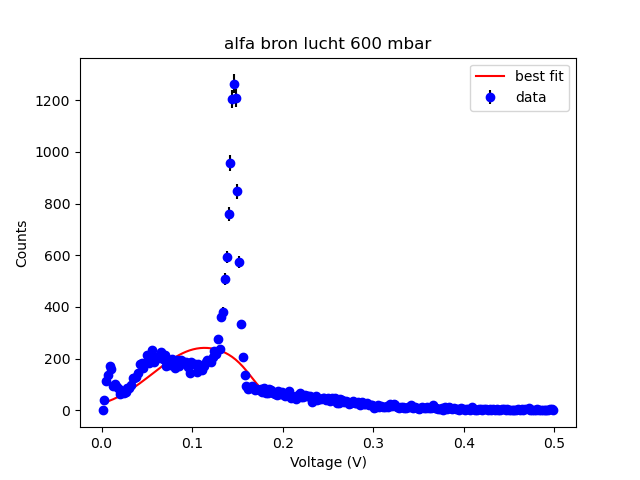
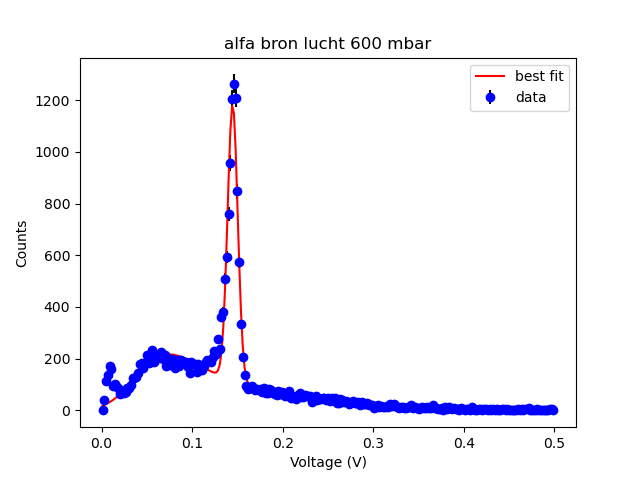
changed the starting values for the fit

diff --git a/dracht.py b/dracht.py
@@ -62,55 +62,43 @@ class Measurement:
         return  (voltage)/a
         
 
-os.chdir(os.path.join(python_file_path, "CSV data"))
-meas_vacuum = Measurement("alfa bron 21 mbar.csv", end_point=1000)
-meas_vacuum.data_fit(start_expmu=0.05, start_gauss1_mu=0.2)
-meas_vacuum.plot()
 
-# look at
-meas_air_100mbar = Measurement("alfa bron lucht 100 mbar.csv", end_point=1000)
-meas_air_100mbar.data_fit(start_expmu=0.05, start_gauss1_mu=0.18)
-meas_air_100mbar.plot()
+meas1_vacuum = Measurement("alfa bron 21 mbar.csv", end_point=1000)
+meas1_vacuum.data_fit(start_expmu=0.05, start_gauss1_mu=0.2)
+meas1_vacuum.plot()
 
-meas_air_200mbar = Measurement("alfa bron lucht 200 mbar.csv", end_point=1000)
-meas_air_200mbar.data_fit(start_expmu=0.05, start_gauss1_mu=0.2)
-meas_air_200mbar.plot()
+meas1_air_100mbar = Measurement("alfa bron lucht 100 mbar.csv", end_point=1000)
+meas1_air_100mbar.data_fit(start_expmu=0.05, start_gauss1_mu=0.18)
+meas1_air_100mbar.plot()
 
-# look at
-meas_air_300mbar = Measurement("alfa bron lucht 300 mbar.csv", end_point=1000)
-meas_air_300mbar.data_fit(start_expmu=0.05, start_gauss1_mu=0.18)
-meas_air_300mbar.plot()
+meas1_air_200mbar = Measurement("alfa bron lucht 200 mbar.csv", end_point=1000)
+meas1_air_200mbar.data_fit(start_expmu=0.05, start_gauss1_mu=0.2)
+meas1_air_200mbar.plot()
 
-# look at
-meas_air_400mbar = Measurement("alfa bron lucht 400 mbar.csv", end_point=1000)
-meas_air_400mbar.data_fit(start_expmu=0.025, start_gauss1_mu=0.17)
-meas_air_400mbar.plot()
+meas1_air_300mbar = Measurement("alfa bron lucht 300 mbar.csv", end_point=1000)
+meas1_air_300mbar.data_fit(start_expmu=0.05, start_gauss1_mu=0.18)
+meas1_air_300mbar.plot()
 
-# look at
-meas_air_500mbar = Measurement("alfa bron lucht 500 mbar.csv", end_point=1000)
-meas_air_500mbar.data_fit(start_expmu=0.025, start_gauss1_mu=0.16)
-meas_air_500mbar.plot()
+meas1_air_400mbar = Measurement("alfa bron lucht 400 mbar.csv", end_point=1000)
+meas1_air_400mbar.data_fit(start_expmu=0.025, start_gauss1_mu=0.17)
+meas1_air_400mbar.plot()
 
-# needs fixing
-meas_air_600mbar = Measurement("alfa bron lucht 600 mbar.csv", end_point=1000)
-meas_air_600mbar.data_fit(start_expmu=0.05, start_gauss1_mu=0.2)
-meas_air_600mbar.plot()
+meas1_air_500mbar = Measurement("alfa bron lucht 500 mbar.csv", end_point=1000)
+meas1_air_500mbar.data_fit(start_expmu=0.025, start_gauss1_mu=0.16)
+meas1_air_500mbar.plot()
 
-# needs fixing
-meas_air_700mbar = Measurement("alfa bron lucht 700 mbar.csv", end_point=1000)
-meas_air_700mbar.data_fit(start_expmu=0.05, start_gauss1_mu=0.2)
-meas_air_700mbar.plot()
+meas1_air_600mbar = Measurement("alfa bron lucht 600 mbar.csv", end_point=1000)
+meas1_air_600mbar.data_fit(start_expmu=0.05, start_gauss1_mu=0.14)
+meas1_air_600mbar.plot()
 
-# needs fixing
-meas_air_800mbar = Measurement("alfa bron lucht 800 mbar.csv", end_point=1000)
-meas_air_800mbar.data_fit(start_expmu=0.05, start_gauss1_mu=0.2)
-meas_air_800mbar.plot()
+meas1_air_700mbar = Measurement("alfa bron lucht 700 mbar.csv", end_point=1000)
+meas1_air_700mbar.data_fit(start_expmu=0.05, start_gauss1_mu=0.13)
+meas1_air_700mbar.plot()
 
-meas_air_900mbar = Measurement("alfa bron lucht 900 mbar.csv", end_point=1000)
-meas_air_900mbar.data_fit(start_expmu=0.05, start_gauss1_mu=0.2)
-meas_air_900mbar.plot()
+meas1_air_800mbar = Measurement("alfa bron lucht 800 mbar.csv", end_point=1000)
+meas1_air_800mbar.data_fit(start_expmu=0.05, start_gauss1_mu=0.12)
+meas1_air_800mbar.plot()
 
-# meas_air_1000mbar = Measurement("alfa bron lucht 1000 mbar.csv", end_point=1000)
-# meas_air_1000mbar.data_fit(start_expmu=0.05, start_gauss1_mu=0.2)
-# meas_air_1000mbar.plot()
-
+meas1_air_900mbar = Measurement("alfa bron lucht 900 mbar.csv", end_point=1000)
+meas1_air_900mbar.data_fit(start_expmu=0.022, start_gauss1_mu=0.12)
+meas1_air_900mbar.plot()
